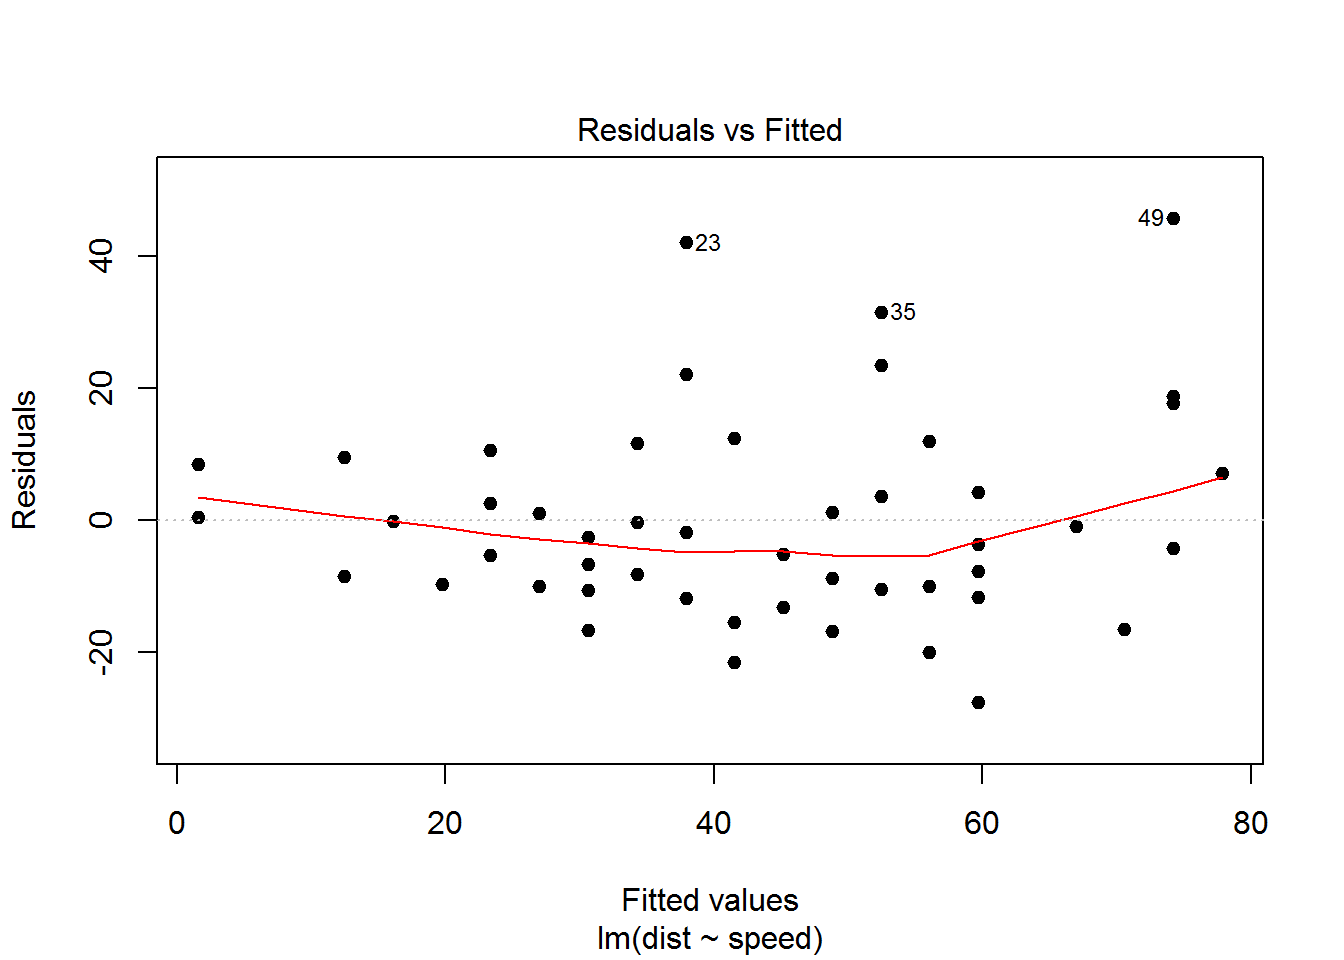
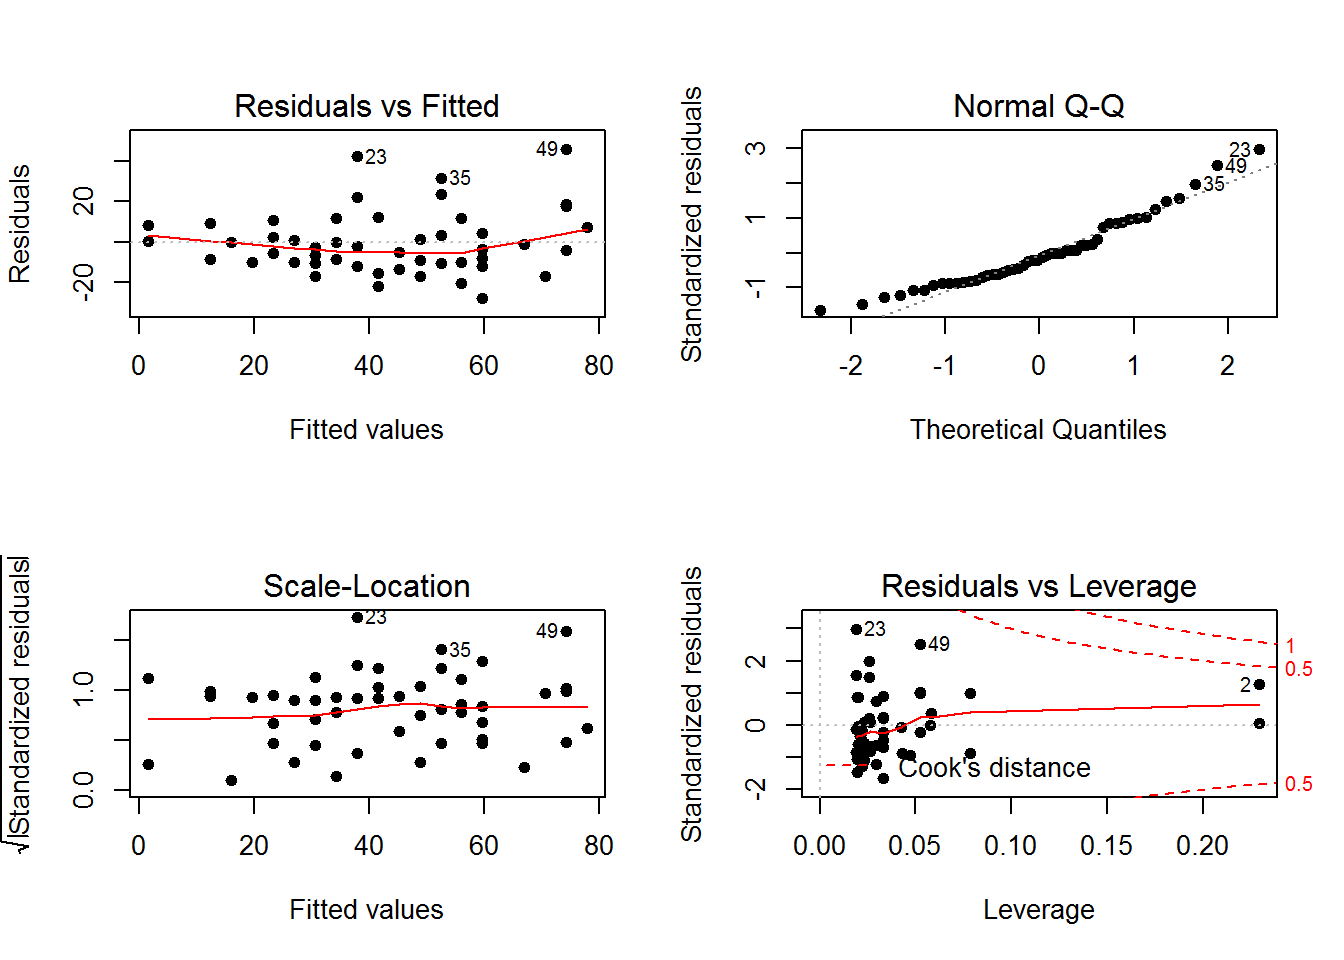
small changes

diff --git a/regressao_problemas_suposicoes.html b/regressao_problemas_suposicoes.html
@@ -322,7 +322,7 @@ $(document).ready(function ()  {
 
     // establish options
     var options = {
-      selectors: "h1,h2,h3",
+      selectors: "h1,h2,h3,h4",
       theme: "bootstrap3",
       context: '.toc-content',
       hashGenerator: function (text) {
@@ -572,7 +572,8 @@ predic_orig &lt;-<span class="st"> </span>predic^<span class="dv">3</span> ### P
 <span class="kw">with</span>(cars,<span class="kw">lines</span>(<span class="kw">lowess</span>(dist~speed),<span class="dt">col=</span><span class="st">&#39;red&#39;</span>,<span class="dt">lwd=</span><span class="dv">2</span>)) </code></pre></div>
 <p><img src="regressao_problemas_suposicoes_files/figure-html/unnamed-chunk-11-1.png" width="672" /></p>
 <p>A dispersão da distância de frenagem parece aumentar conforme a velocidade.</p>
-<p>Ajuste 1: regressão linear via mínimos quadrados ordinários.</p>
+<div id="ajuste-1-regressao-linear-via-minimos-quadrados-ordinarios" class="section level4">
+<h4>Ajuste 1: regressão linear via mínimos quadrados ordinários</h4>
 <div class="sourceCode"><pre class="sourceCode r"><code class="sourceCode r">ajuste &lt;-<span class="st"> </span><span class="kw">lm</span>(dist~speed,<span class="dt">data =</span> cars) 
 <span class="kw">summary</span>(ajuste) </code></pre></div>
 <pre><code>## 
@@ -602,7 +603,10 @@ predic_orig &lt;-<span class="st"> </span>predic^<span class="dv">3</span> ### P
 ## Variance formula: ~ fitted.values 
 ## Chisquare = 4.650233, Df = 1, p = 0.031049</code></pre>
 <p>Como a hipótese nula é a de variância constante para os erros, temos evidência significativa de variância não constante ao nível de 5%.</p>
-<p>Ajuste 2: regressão linear via mínimos quadrados ponderados. vamos assumir que a variância aumenta linearmente conforme a velocidade (x). Assim, os pesos vão ser definidos por 1/x.</p>
+</div>
+<div id="ajuste-2-regressao-linear-via-minimos-quadrados-ponderados" class="section level4">
+<h4>Ajuste 2: regressão linear via mínimos quadrados ponderados</h4>
+<p>vamos assumir que a variância aumenta linearmente conforme a velocidade (x). Assim, os pesos vão ser definidos por 1/x.</p>
 <div class="sourceCode"><pre class="sourceCode r"><code class="sourceCode r">ajuste2 &lt;-<span class="st"> </span><span class="kw">lm</span>(dist ~<span class="st"> </span>speed, <span class="dt">weights =</span> <span class="dv">1</span>/speed, <span class="dt">data =</span> cars) 
 <span class="kw">summary</span>(ajuste) </code></pre></div>
 <pre><code>## 
@@ -640,8 +644,9 @@ predic_orig &lt;-<span class="st"> </span>predic^<span class="dv">3</span> ### P
 ## Pr(&gt;|z|)     &lt;2e-16  &lt;2e-16
 ## </code></pre>
 <p>Comparação das estimativas e erros fornecidas pelos dois modelos.</p>
-<div class="sourceCode"><pre class="sourceCode r"><code class="sourceCode r"><span class="kw">plot</span>(ajuste2, <span class="dt">pch =</span> <span class="dv">20</span>, <span class="dt">cex =</span> <span class="fl">1.4</span>)</code></pre></div>
-<p><img src="regressao_problemas_suposicoes_files/figure-html/unnamed-chunk-15-1.png" width="672" /><img src="regressao_problemas_suposicoes_files/figure-html/unnamed-chunk-15-2.png" width="672" /><img src="regressao_problemas_suposicoes_files/figure-html/unnamed-chunk-15-3.png" width="672" /><img src="regressao_problemas_suposicoes_files/figure-html/unnamed-chunk-15-4.png" width="672" /></p>
+<div class="sourceCode"><pre class="sourceCode r"><code class="sourceCode r"><span class="kw">par</span>(<span class="dt">mfrow =</span> <span class="kw">c</span>(<span class="dv">2</span>,<span class="dv">2</span>))
+<span class="kw">plot</span>(ajuste2, <span class="dt">pch =</span> <span class="dv">20</span>, <span class="dt">cex =</span> <span class="fl">1.4</span>)</code></pre></div>
+<p><img src="regressao_problemas_suposicoes_files/figure-html/unnamed-chunk-15-1.png" width="672" /></p>
 <p>Os resíduos reforçam a evidência de variância não constante.</p>
 <div class="sourceCode"><pre class="sourceCode r"><code class="sourceCode r"><span class="kw">par</span>(<span class="dt">mfrow =</span> <span class="kw">c</span>(<span class="dv">1</span>,<span class="dv">2</span>))
 <span class="kw">plot</span>(ajuste, <span class="dt">pch =</span> <span class="dv">20</span>, <span class="dt">cex =</span> <span class="fl">1.4</span>, <span class="dt">which =</span> <span class="dv">3</span>)
@@ -653,7 +658,10 @@ predic_orig &lt;-<span class="st"> </span>predic^<span class="dv">3</span> ### P
 ## Variance formula: ~ fitted.values 
 ## Chisquare = 0.99636, Df = 1, p = 0.31819</code></pre>
 <p>A hipótese de variância constante já não é rejeitada.</p>
-<p>Ajuste 3: regressão linear via mínimos quadrados ponderados. Agora, vamos assumir uma forma paramétrica para a relação do desvio padrão dos erros com relação à velocidade (x) e estimar os parâmetros. Vamos assumir DP(Erros) = theta1 + velocidade^theta2 e usar a função gls, pacote nlme, para estimar, conjuntamente e por máxima verossimilhança, os betas e os thetas.</p>
+</div>
+<div id="ajuste-3-regressao-linear-via-minimos-quadrados-ponderados" class="section level4">
+<h4>Ajuste 3: regressão linear via mínimos quadrados ponderados</h4>
+<p>Agora, vamos assumir uma forma paramétrica para a relação do desvio padrão dos erros com relação à velocidade (x) e estimar os parâmetros. Vamos assumir DP(Erros) = theta1 + velocidade^theta2 e usar a função gls, pacote nlme, para estimar, conjuntamente e por máxima verossimilhança, os betas e os thetas.</p>
 <div class="sourceCode"><pre class="sourceCode r"><code class="sourceCode r">ajuste3 &lt;-<span class="st"> </span><span class="kw">gls</span>(dist ~<span class="st"> </span>speed, <span class="dt">data =</span> cars, <span class="dt">weight =</span> <span class="kw">varConstPower</span>(<span class="dt">form=</span>~speed))
 residuos3 &lt;-<span class="st"> </span><span class="kw">residuals</span>(ajuste3, <span class="dt">type=</span><span class="st">&#39;normalized&#39;</span>)
 <span class="kw">plot</span>(cars$speed, residuos3, <span class="dt">xlab =</span> <span class="st">&#39;Velociadade (mph)&#39;</span>, <span class="dt">ylab =</span> <span class="st">&#39;Resíduos&#39;</span>,
@@ -709,6 +717,7 @@ residuos3 &lt;-<span class="st"> </span><span class="kw">residuals</span>(ajuste
 ## z              9.46   10.52   10.88
 ## Pr(&gt;|z|)     &lt;2e-16  &lt;2e-16  &lt;2e-16
 ## </code></pre>
+</div>
 </div>
 <div id="exemplo-3---regressao-robusta" class="section level2">
 <h2>Exemplo 3 - Regressão robusta</h2>
